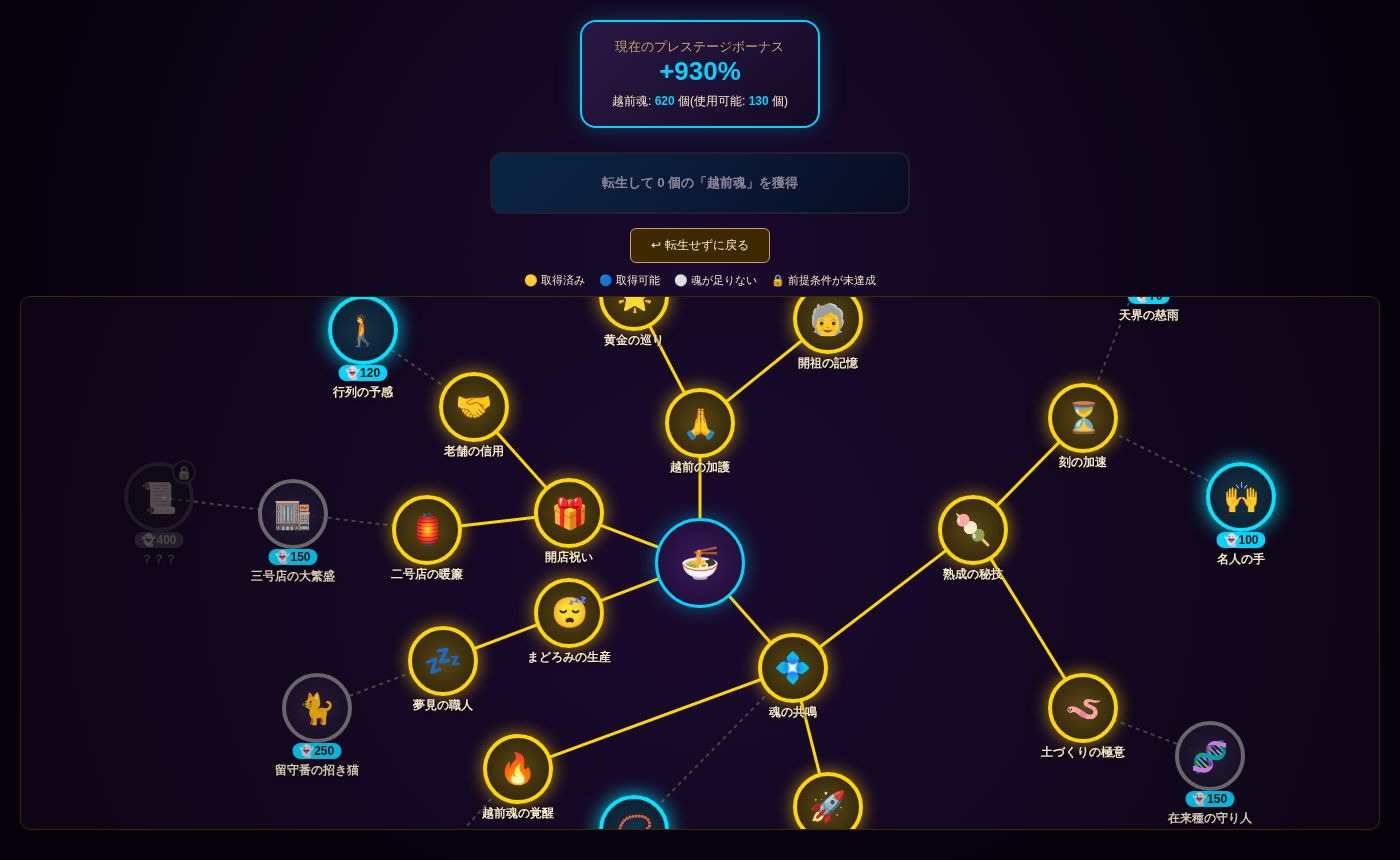
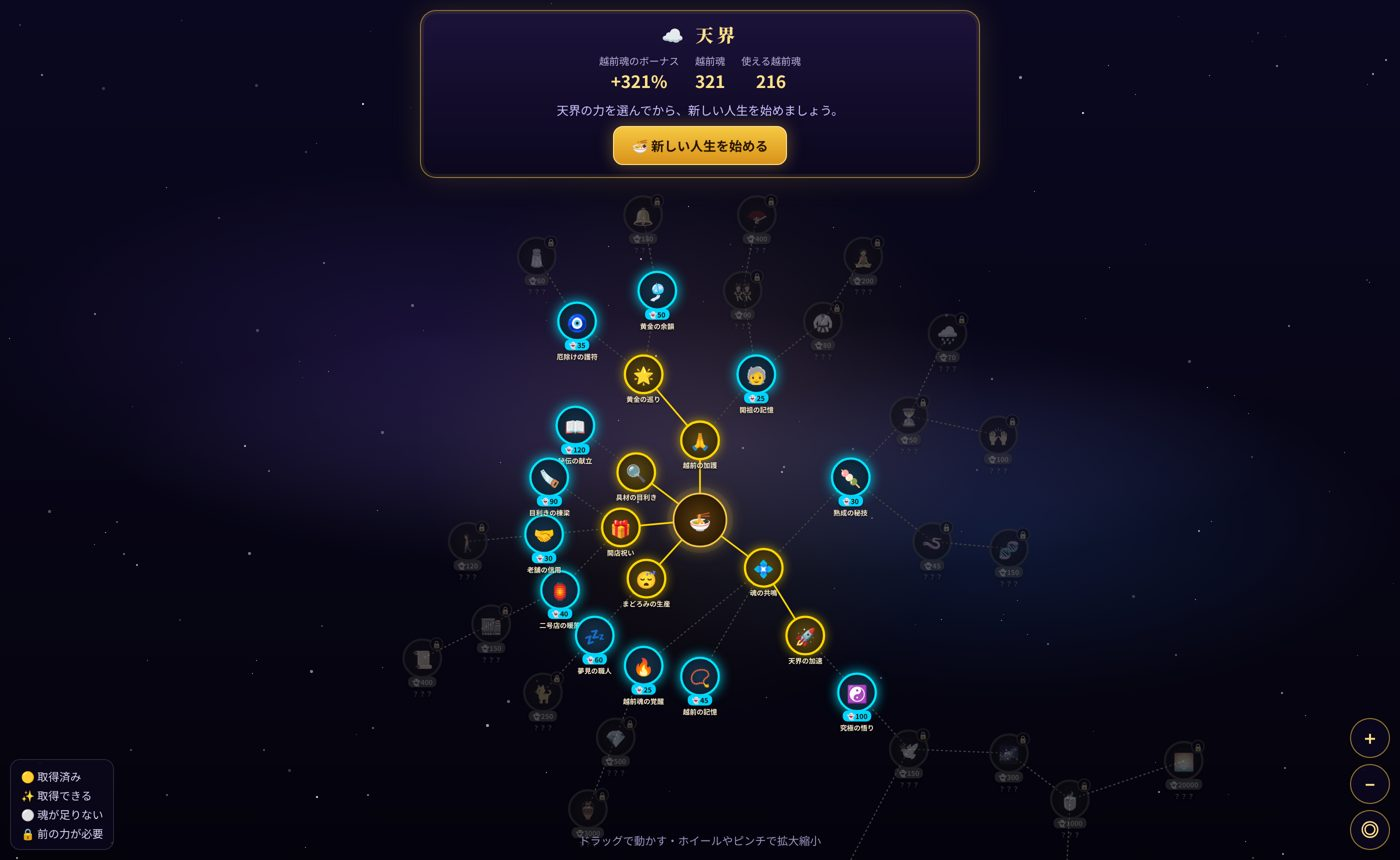
Full-screen heavenly sky; prestige goes to the sky to choose powers before the new life
- The skill tree fills the screen over a starry night sky, with drag, wheel/pinch zoom
  and a center button; the header is a compact panel on top
- Prestige no longer starts the new life at once: it opens the sky, where powers are
  bought, and "Begin a new life" applies the starter kit. Reloading in between
  returns to the sky.

Claude-Session: https://claude.ai/code/session_01DH8e2qLLQXDWCLd39XPmR5

diff --git a/js/core.js b/js/core.js
@@ -46,6 +46,7 @@ function createFreshState() {
         titles: ['t_rookie'],
         title: 't_rookie',
         decorations: [],
+        pendingRebirth: false,
         reputation: 0,
         ordersCompleted: 0,
         ordersFailed: 0,
@@ -1334,7 +1335,8 @@ function renderSkillTree(available) {
         div.appendChild(label);
 
         if (!owned && prereqMet) {
-            div.onpointerdown = (e) => { e.preventDefault(); buyHeavenly(h.id); };
+            // A click, not a press, so dragging the sky from a node doesn't buy it
+            div.onclick = () => { if (!treeDrag.moved) buyHeavenly(h.id); };
         }
         let tipDesc = h.desc;
         if (!prereqMet) {
@@ -1350,21 +1352,131 @@ function renderSkillTree(available) {
 }
 
 
-function openAscensionScreen() {
-    document.getElementById('ascension-screen').style.display = 'flex';
-    renderAscensionScreen();
-    // The tree grows outward from the center of a large canvas: start the view there
-    const wrap = document.getElementById('skill-tree-wrap');
-    wrap.scrollLeft = (wrap.scrollWidth - wrap.clientWidth) / 2;
-    wrap.scrollTop = (wrap.scrollHeight - wrap.clientHeight) / 2;
+// --- The heavenly sky: a full-screen tree you can drag around and zoom ---
+const treeView = { x: 0, y: 0, scale: 1 };
+const treeDrag = { pointers: new Map(), moved: false, startDist: 0, startScale: 1, last: null };
+const TREE_MIN_SCALE = 0.35, TREE_MAX_SCALE = 1.8;
+
+function applyTreeView() {
+    document.getElementById('skill-tree-canvas').style.transform = `translate(${treeView.x}px, ${treeView.y}px) scale(${treeView.scale})`;
 }
 
-function closeAscensionScreen() {
+// Fit the whole tree on screen (but not larger than 1:1), centered under the header
+function centerSkillTree(fit) {
+    const wrap = document.getElementById('skill-tree-wrap');
+    const canvas = document.getElementById('skill-tree-canvas');
+    const size = parseFloat(canvas.style.width) || 1400;
+    const hud = document.getElementById('ascension-header-box').getBoundingClientRect();
+    const top = Math.min(hud.bottom, wrap.clientHeight * 0.4);
+    const w = wrap.clientWidth, h = wrap.clientHeight - top;
+    if (fit) treeView.scale = Math.max(TREE_MIN_SCALE, Math.min(1, Math.min(w, h) / size * 2));
+    treeView.x = w / 2 - size * treeView.scale / 2;
+    treeView.y = top + h / 2 - size * treeView.scale / 2;
+    applyTreeView();
+}
+
+function zoomSkillTree(factor, cx, cy) {
+    const wrap = document.getElementById('skill-tree-wrap');
+    if (cx === undefined) { cx = wrap.clientWidth / 2; cy = wrap.clientHeight / 2; }
+    const next = Math.max(TREE_MIN_SCALE, Math.min(TREE_MAX_SCALE, treeView.scale * factor));
+    const k = next / treeView.scale;
+    treeView.x = cx - (cx - treeView.x) * k;
+    treeView.y = cy - (cy - treeView.y) * k;
+    treeView.scale = next;
+    applyTreeView();
+}
+
+function setupSkillTreeControls() {
+    const wrap = document.getElementById('skill-tree-wrap');
+    if (wrap.dataset.ready) return;
+    wrap.dataset.ready = '1';
+    const center = () => {
+        const pts = [...treeDrag.pointers.values()];
+        return { x: pts.reduce((s, p) => s + p.x, 0) / pts.length, y: pts.reduce((s, p) => s + p.y, 0) / pts.length };
+    };
+    const spread = () => {
+        const [a, b] = [...treeDrag.pointers.values()];
+        return Math.hypot(a.x - b.x, a.y - b.y);
+    };
+    wrap.addEventListener('pointerdown', (e) => {
+        treeDrag.pointers.set(e.pointerId, { x: e.clientX, y: e.clientY });
+        if (treeDrag.pointers.size === 1) treeDrag.moved = false;
+        treeDrag.last = center();
+        if (treeDrag.pointers.size === 2) { treeDrag.startDist = spread(); treeDrag.startScale = treeView.scale; }
+        wrap.classList.add('dragging');
+    });
+    wrap.addEventListener('pointermove', (e) => {
+        if (!treeDrag.pointers.has(e.pointerId)) return;
+        treeDrag.pointers.set(e.pointerId, { x: e.clientX, y: e.clientY });
+        const c = center();
+        const dx = c.x - treeDrag.last.x, dy = c.y - treeDrag.last.y;
+        if (Math.abs(dx) + Math.abs(dy) > 0) {
+            treeView.x += dx; treeView.y += dy;
+            if (!treeDrag.moved && treeDrag.pointers.size === 1) {
+                const start = treeDrag.downAt || c;
+                if (Math.hypot(c.x - start.x, c.y - start.y) > 6) treeDrag.moved = true;
+            }
+        }
+        treeDrag.last = c;
+        if (treeDrag.pointers.size === 2 && treeDrag.startDist > 0) {
+            treeDrag.moved = true;
+            zoomSkillTree(treeDrag.startScale * spread() / treeDrag.startDist / treeView.scale, c.x, c.y);
+        } else applyTreeView();
+        hideTooltip();
+    });
+    const end = (e) => {
+        treeDrag.pointers.delete(e.pointerId);
+        treeDrag.last = treeDrag.pointers.size ? center() : null;
+        if (treeDrag.pointers.size < 2) treeDrag.startDist = 0;
+        if (!treeDrag.pointers.size) { wrap.classList.remove('dragging'); setTimeout(() => { treeDrag.moved = false; }, 0); }
+    };
+    wrap.addEventListener('pointerup', end);
+    wrap.addEventListener('pointercancel', end);
+    wrap.addEventListener('pointerdown', (e) => { treeDrag.downAt = { x: e.clientX, y: e.clientY }; }, true);
+    wrap.addEventListener('wheel', (e) => { e.preventDefault(); zoomSkillTree(e.deltaY < 0 ? 1.12 : 1 / 1.12, e.clientX, e.clientY); }, { passive: false });
+
+    // Stars, scattered once
+    const sky = document.getElementById('heaven-sky');
+    let stars = '';
+    for (let i = 0; i < 160; i++) {
+        const size = Math.random() < 0.1 ? 3 : Math.random() < 0.4 ? 2 : 1;
+        stars += `<span class="heaven-star" style="left:${(Math.random() * 100).toFixed(2)}%;top:${(Math.random() * 100).toFixed(2)}%;width:${size}px;height:${size}px;--o:${(0.4 + Math.random() * 0.6).toFixed(2)};--tw:${(2 + Math.random() * 5).toFixed(1)}s;animation-delay:-${(Math.random() * 5).toFixed(1)}s"></span>`;
+    }
+    sky.innerHTML = stars;
+}
+
+function openAscensionScreen() {
+    const screen = document.getElementById('ascension-screen');
+    screen.style.display = 'block';
+    screen.classList.toggle('limbo', !!state.pendingRebirth);
+    setupSkillTreeControls();
+    renderAscensionScreen();
+    centerSkillTree(true);
+}
+
+// While between lives (after prestige, before starting again) the sky can't be left
+function closeAscensionScreen(force) {
+    if (state.pendingRebirth && !force) return;
     document.getElementById('ascension-screen').style.display = 'none';
 }
 
+// Leave the sky after a prestige: the starter kit follows the heavenly powers chosen up there
+function finishRebirth() {
+    if (!state.pendingRebirth) return;
+    state.pendingRebirth = false;
+    applyStarterKit();
+    scheduleNextOrder();
+    calculateCps();
+    closeAscensionScreen(true);
+    document.getElementById('ascension-screen').classList.remove('limbo');
+    switchTab('shop');
+    saveGame(true);
+    notify(t('輪廻転生しました。新たな人生の始まりです。'), "♻");
+    render();
+}
+
 function renderAscensionScreen() {
-    if (document.getElementById('ascension-screen').style.display !== 'flex') return;
+    if (document.getElementById('ascension-screen').style.display !== 'block') return;
     const btn = document.getElementById('ascension-transcend-btn');
     const soulsToGet = getSoulsToGet();
     const canPrestige = soulsToGet > 0;
@@ -1495,6 +1607,7 @@ document.getElementById('bowl').onpointerdown = (e) => { e.preventDefault(); cli
 
 document.addEventListener('keydown', (e) => {
     if (e.code !== 'Space' || e.repeat) return;
+    if (document.getElementById('ascension-screen').style.display === 'block') return;
     // Let Space type into text fields and press focused buttons as usual
     const t = e.target;
     if (t && (t.isContentEditable || ['INPUT', 'TEXTAREA', 'SELECT', 'BUTTON'].includes(t.tagName))) return;
@@ -1689,14 +1802,14 @@ function prestige() {
         state.souls += soulsToGet;
         state.prestigeCount++;
         resetState();
-        applyStarterKit();
         state.activeOrder = null;
-        scheduleNextOrder();
+        danExam = null;
+        // Into the sky: choose heavenly powers first, then start the new life with finishRebirth()
+        state.pendingRebirth = true;
         calculateCps();
-        closeAscensionScreen();
-        switchTab('shop');
+        saveGame(true);
         showCelebration('♻', t('輪廻転生'), t('越前魂 +{0}', fmt(soulsToGet)), 'prestige');
-        notify(t('輪廻転生しました。新たな人生の始まりです。'), "♻");
+        openAscensionScreen();
     }
 }
 

diff --git a/css/style.css b/css/style.css
@@ -250,7 +250,7 @@ body.reduced #fever-overlay.on{animation:none}
 .region-marker-label{position:absolute;transform:translate(-50%, 32px);font-size:11px;white-space:nowrap;color:var(--text);font-weight:bold;z-index:3;pointer-events:none;padding:1px 6px;border-radius:8px;background:rgba(0,0,0,0.55);text-shadow:0 1px 2px rgba(0,0,0,0.9)}
 
 /* Skill Tree */
-.skill-hub{position:absolute;width:90px;height:90px;border-radius:50%;background:radial-gradient(circle, #3a1a5c 0%, #1a0a2e 100%);border:3px solid var(--prestige);display:flex;align-items:center;justify-content:center;font-size:32px;transform:translate(-50%,-50%);box-shadow:0 0 20px rgba(0,212,255,0.4);z-index:2}
+.skill-hub{position:absolute;width:96px;height:96px;border-radius:50%;background:radial-gradient(circle, #5a3a10 0%, #1a0f00 100%);border:3px solid #f5c842;display:flex;align-items:center;justify-content:center;font-size:32px;transform:translate(-50%,-50%);box-shadow:0 0 30px rgba(245,200,66,0.55), 0 0 0 10px rgba(245,200,66,0.08);z-index:2}
 .skill-node{position:absolute;width:70px;height:70px;border-radius:50%;display:flex;align-items:center;justify-content:center;font-size:30px;transform:translate(-50%,-50%);cursor:pointer;transition:0.2s;z-index:3;border:4px solid #333;background:radial-gradient(circle, #2a1f3d 0%, #150d20 100%)}
 .skill-node.owned{border-color:gold;background:radial-gradient(circle, #5a4816 0%, #2a1f08 100%);box-shadow:0 0 18px rgba(255,215,0,0.6)}
 .skill-node.available{border-color:#00e5ff;background:radial-gradient(circle, #16324a 0%, #0a1a2a 100%);box-shadow:0 0 14px rgba(0,229,255,0.5);animation:skill-pulse 1.8s ease-in-out infinite}
@@ -297,11 +297,39 @@ body.reduced #fever-overlay.on{animation:none}
 .daily-progress{font-size:11px;color:var(--muted);margin-top:4px}
 
 /* Full-screen Ascension overlay - completely replaces normal gameplay, original-inspired */
-#ascension-screen{display:none;position:fixed;inset:0;z-index:2000;background:radial-gradient(circle at 50% 30%, #1a0a2e 0%, #05020a 80%);overflow-y:auto;flex-direction:column;align-items:center;padding:20px;}
-#ascension-header{width:100%;max-width:600px;display:flex;flex-direction:column;align-items:center;margin-bottom:10px;flex-shrink:0;}
-#ascension-header-box{background:linear-gradient(135deg, #2a1845 0%, #150a25 100%);border:2px solid var(--prestige);border-radius:16px;padding:16px 30px;text-align:center;box-shadow:0 0 25px rgba(0,212,255,0.25);margin-bottom:10px;}
-#skill-tree-wrap{width:100%; flex:1; min-height:400px; overflow:auto; border:1px solid var(--border); border-radius:10px; background:radial-gradient(circle, #1a0a2e 0%, #0d0515 100%); margin-bottom:10px;}
-#skill-tree-canvas{position:relative; width:1400px; height:1400px; margin:0 auto;}
+#ascension-screen{display:none;position:fixed;inset:0;z-index:2000;overflow:hidden;background:#04030c}
+/* Night sky over Echizen: an indigo field, a soft band of the Milky Way and warm lantern-gold glows */
+#heaven-sky{position:absolute;inset:0;pointer-events:none;background:
+    radial-gradient(ellipse 60% 22% at 50% 52%, rgba(160,140,255,0.16), transparent 70%),
+    radial-gradient(ellipse 45% 30% at 30% 40%, rgba(90,60,170,0.22), transparent 70%),
+    radial-gradient(ellipse 40% 28% at 72% 62%, rgba(40,90,170,0.22), transparent 70%),
+    radial-gradient(circle at 50% 50%, rgba(245,200,66,0.10), transparent 35%),
+    linear-gradient(180deg, #0a0820 0%, #04030c 100%)}
+.heaven-star{position:absolute;border-radius:50%;background:#fff;animation:twinkle var(--tw,4s) ease-in-out infinite}
+@keyframes twinkle{0%,100%{opacity:var(--o,0.8)}50%{opacity:0.2}}
+#skill-tree-wrap{position:absolute;inset:0;overflow:hidden;cursor:grab;touch-action:none}
+#skill-tree-wrap.dragging{cursor:grabbing}
+#skill-tree-canvas{position:absolute;left:0;top:0;width:1400px;height:1400px;transform-origin:0 0}
+#ascension-hud{position:absolute;top:10px;left:50%;transform:translateX(-50%);z-index:5;width:min(560px, calc(100% - 20px));pointer-events:none}
+#ascension-header-box{pointer-events:auto;background:linear-gradient(180deg, rgba(30,20,60,0.92) 0%, rgba(12,8,30,0.92) 100%);border:1px solid rgba(245,200,66,0.55);border-radius:16px;padding:10px 16px 12px;text-align:center;box-shadow:0 0 30px rgba(245,200,66,0.15), inset 0 0 0 3px rgba(245,200,66,0.08);backdrop-filter:blur(4px)}
+.heaven-title{font-family:'Noto Serif JP',serif;font-weight:900;font-size:18px;color:#ffe08a;letter-spacing:0.2em}
+.heaven-stats{display:flex;justify-content:center;gap:16px;margin:6px 0 8px;flex-wrap:wrap}
+.heaven-stats>div{display:flex;flex-direction:column;align-items:center}
+.heaven-stat-label{font-size:10px;color:#b8b0d8}
+.heaven-stat-value{font-size:17px;font-weight:900;color:#ffe08a}
+#ascension-limbo-msg{display:none;font-size:12px;color:#c9c1ff;margin-bottom:8px}
+#ascension-screen.limbo #ascension-limbo-msg{display:block}
+#ascension-actions{display:flex;gap:8px;justify-content:center;flex-wrap:wrap}
+.heaven-btn{padding:8px 14px;border-radius:10px;border:1px solid #6a5a9a;background:rgba(40,30,80,0.9);color:#e8e2ff;font-family:inherit;font-weight:700;font-size:12px;cursor:pointer}
+.heaven-btn.main{background:linear-gradient(180deg,#f5c842,#d9921a);border-color:#ffe08a;color:#2a1600;font-size:13px;padding:9px 18px;box-shadow:0 0 16px rgba(245,200,66,0.35)}
+.heaven-btn:disabled{opacity:0.45;cursor:default;box-shadow:none}
+#ascension-rebirth-btn{display:none}
+#ascension-screen.limbo #ascension-rebirth-btn{display:inline-block}
+#ascension-screen.limbo #ascension-transcend-btn,#ascension-screen.limbo #ascension-back-btn{display:none}
+#skill-tree-legend{position:absolute;left:10px;bottom:10px;z-index:5;display:flex;flex-direction:column;gap:3px;font-size:11px;color:#d8d2f0;background:rgba(12,8,30,0.75);border:1px solid rgba(255,255,255,0.12);border-radius:10px;padding:8px 10px;pointer-events:none}
+#heaven-zoom{position:absolute;right:10px;bottom:10px;z-index:5;display:flex;flex-direction:column;gap:6px}
+#heaven-zoom button{width:40px;height:40px;border-radius:50%;border:1px solid rgba(245,200,66,0.6);background:rgba(12,8,30,0.85);color:#ffe08a;font-size:18px;font-weight:900;cursor:pointer}
+#heaven-hint{position:absolute;bottom:12px;left:50%;transform:translateX(-50%);z-index:5;font-size:11px;color:#9a92c0;pointer-events:none;white-space:nowrap}
 
 /* Shrine (Spirits) UI */
 #shrine-view{flex:1;overflow-y:auto;padding:25px;display:none;-webkit-overflow-scrolling: touch;}
@@ -354,8 +382,9 @@ button{touch-action:manipulation}
 
     .region-marker{width:46px;height:46px;font-size:20px}
     .region-marker-label{transform:translate(-50%, 27px)}
-    #ascension-header-box{padding:12px 20px}
-    #ascension-bonus{font-size:20px}
+    #ascension-header-box{padding:8px 10px 10px}
+    .heaven-stat-value{font-size:15px}
+    #skill-tree-legend,#heaven-hint{display:none}
 }
 
 @media (max-width: 480px) {

diff --git a/soba_clicker.html b/soba_clicker.html
@@ -272,30 +272,42 @@
 </div>
 
 <div id="ascension-screen">
-    <div id="ascension-header">
-        <div id="ascension-header-box">
-            <div style="font-size:13px; color:var(--muted)">現在のプレステージボーナス</div>
-            <div id="ascension-bonus" style="font-size:26px; font-weight:900; color:var(--prestige)">+0%</div>
-            <div style="font-size:12px; margin-top:6px;">越前魂: <span id="ascension-souls" style="color:var(--prestige); font-weight:bold">0</span> 個(使用可能: <span id="ascension-available" style="color:var(--prestige); font-weight:bold">0</span> 個)</div>
-        </div>
-        <button id="ascension-transcend-btn" class="prestige-btn" onclick="prestige()" style="max-width:420px; margin:14px auto;">
-            転生して 0 個の「越前魂」を獲得
-        </button>
-        <button id="ascension-back-btn" onclick="closeAscensionScreen()" style="padding:8px 20px; background:var(--border); border:1px solid var(--muted); color:var(--text); border-radius:6px; cursor:pointer; font-size:12px;">↩ 転生せずに戻る</button>
-    </div>
-
-    <div id="skill-tree-legend" style="display:flex; gap:14px; flex-wrap:wrap; justify-content:center; font-size:11px; color:var(--text); margin-bottom:8px;">
-        <span>🟡 取得済み</span>
-        <span>🔵 取得可能</span>
-        <span>⚪ 魂が足りない</span>
-        <span>🔒 前提条件が未達成</span>
-    </div>
-
+    <div id="heaven-sky"></div>
     <div id="skill-tree-wrap">
         <div id="skill-tree-canvas">
             <svg id="skill-tree-svg" width="1400" height="1200" style="position:absolute; top:0; left:0; pointer-events:none;"></svg>
         </div>
     </div>
+
+    <div id="ascension-hud">
+        <div id="ascension-header-box">
+            <div class="heaven-title">☁ 天界</div>
+            <div class="heaven-stats">
+                <div><span class="heaven-stat-label">越前魂のボーナス</span><span id="ascension-bonus" class="heaven-stat-value">+0%</span></div>
+                <div><span class="heaven-stat-label">越前魂</span><span class="heaven-stat-value"><span id="ascension-souls">0</span></span></div>
+                <div><span class="heaven-stat-label">使える越前魂</span><span class="heaven-stat-value"><span id="ascension-available">0</span></span></div>
+            </div>
+            <div id="ascension-limbo-msg">天界の力を選んでから、新しい人生を始めましょう。</div>
+            <div id="ascension-actions">
+                <button id="ascension-transcend-btn" class="heaven-btn main" onclick="prestige()">転生して 0 個の「越前魂」を獲得</button>
+                <button id="ascension-rebirth-btn" class="heaven-btn main" onclick="finishRebirth()">🍜 新しい人生を始める</button>
+                <button id="ascension-back-btn" class="heaven-btn" onclick="closeAscensionScreen()">↩ 転生せずに戻る</button>
+            </div>
+        </div>
+    </div>
+
+    <div id="skill-tree-legend">
+        <span>🟡 取得済み</span>
+        <span>✨ 取得できる</span>
+        <span>⚪ 魂が足りない</span>
+        <span>🔒 前の力が必要</span>
+    </div>
+    <div id="heaven-zoom">
+        <button onclick="zoomSkillTree(1.25)" aria-label="zoom in">＋</button>
+        <button onclick="zoomSkillTree(0.8)" aria-label="zoom out">－</button>
+        <button onclick="centerSkillTree(true)" aria-label="center">◎</button>
+    </div>
+    <div id="heaven-hint">ドラッグで動かす・ホイールやピンチで拡大縮小</div>
 </div>
 
 <div id="modal-overlay" onclick="if (event.target === this) closeModal()"><div id="modal-box"></div></div>

diff --git a/tests/game.test.js b/tests/game.test.js
@@ -123,9 +123,19 @@ test('prestige grants souls and keeps permanent progress', async () => {
         state.allTimeSoba = 1e12; state.totalSoba = 1e12;
         const expected = getSoulsToGet();
         prestige();
-        return { expected, souls: state.souls, level: state.buildingLevels.student, students: state.buildings.student,
+        // Between lives: in the sky, nothing built yet, and the sky can't be closed until a new life starts
+        const limbo = { pending: state.pendingRebirth, open: document.getElementById('ascension-screen').style.display, students: state.buildings.student };
+        closeAscensionScreen();
+        limbo.stillOpen = document.getElementById('ascension-screen').style.display;
+        state.heavenlyUpgrades.push('heav_17'); // taken in the sky, so its starter kit applies to this life
+        finishRebirth();
+        return { limbo, mills: state.buildings.mill, closed: document.getElementById('ascension-screen').style.display, pendingAfter: state.pendingRebirth, expected, souls: state.souls, level: state.buildingLevels.student, students: state.buildings.student,
                  kitchens: state.buildings.kitchen, regions: state.regions, soba: state.soba, upgrades: state.upgrades.length };
     });
+    assert.deepEqual(r.limbo, { pending: true, open: 'block', students: 0, stillOpen: 'block' });
+    assert.equal(r.mills, 10, 'starter kit from a power bought in the sky');
+    assert.equal(r.closed, 'none');
+    assert.equal(r.pendingAfter, false);
     assert.equal(r.souls, 5 + r.expected);
     assert.ok(r.expected >= 5, 'first prestige at 1e12 should give a useful number of souls');
     assert.equal(r.level, 2, 'aging levels are permanent');

diff --git a/js/lang-en.js b/js/lang-en.js
@@ -1076,6 +1076,16 @@ I18N.en.text = {
     '時間切れ…「{0}」は失敗しました。元の進行状況に戻りました。': 'Time is up... "{0}" failed. Your progress is back.',
     '転生を{0}回すると挑戦できるようになる。': 'Unlocks after {0} prestiges.',
 
+    // --- the heavenly sky ---
+    '☁ 天界': '☁ Heaven',
+    '越前魂のボーナス': 'Soul bonus',
+    '使える越前魂': 'Souls to spend',
+    '天界の力を選んでから、新しい人生を始めましょう。': 'Choose your heavenly powers, then begin your new life.',
+    '🍜 新しい人生を始める': '🍜 Begin a new life',
+    '✨ 取得できる': '✨ Can be learned',
+    '🔒 前の力が必要': '🔒 Needs the one before',
+    'ドラッグで動かす・ホイールやピンチで拡大縮小': 'Drag to move, wheel or pinch to zoom',
+
     // --- dan exams, titles, decorations ---
     '🥋 段位': '🥋 Dan',
     '🎏 飾りつけ': '🎏 Decor',

diff --git a/js/save.js b/js/save.js
@@ -88,6 +88,7 @@ function normalizeState() {
     if (!state.titles.includes('t_rookie')) state.titles.unshift('t_rookie');
     if (typeof state.title !== 'string') state.title = 't_rookie';
     if (!Array.isArray(state.decorations)) state.decorations = [];
+    if (typeof state.pendingRebirth !== 'boolean') state.pendingRebirth = false;
     if (typeof state.pantry.finds !== 'number') state.pantry.finds = 0;
     if (state.reputation === undefined) state.reputation = 0;
     if (state.ordersCompleted === undefined) state.ordersCompleted = 0;
@@ -174,3 +175,5 @@ if ('serviceWorker' in navigator && location.protocol.startsWith('http')) {
     navigator.serviceWorker.register('sw.js').catch(() => { /* offline support is optional */ });
 }
 checkLoginBonus();
+// Closed the game in the sky after a prestige: go back there to finish choosing
+if (state.pendingRebirth) openAscensionScreen();

diff --git a/js/systems.js b/js/systems.js
@@ -704,6 +704,7 @@ function getOrderProgress(order) {
 }
 
 function orderTick(now) {
+    if (state.pendingRebirth) return; // between lives, in the sky
     if (state.activeOrder) {
         const order = state.activeOrder;
         // Deadline first: production credited in one lump after it (time away, a background tab)

diff --git a/README.md b/README.md
@@ -24,7 +24,7 @@ It runs in the browser on computers and phones, with no install. Available in Ja
 
 ### おもな要素
 - **施設28種・アップグレード**: そば打ち見習いから宇宙そば農場、そばの龍神、「終わりなき一杯」、そして最後は「あなた」。
-- **転生と天界の力**: 越前魂で買える、43項目のスキルツリー。
+- **転生と天界の力**: 越前魂で買える、43項目のスキルツリー。転生すると画面いっぱいの星空(天界)に移り、ドラッグや拡大縮小でツリーを見ながら天界の力を選んでから、新しい人生を始めます。
 - **神格**: 越前魂を1000個集めると行える、転生のさらに上の段階。全てを捧げて「神徳」を得る、終盤の目標です。
 - **今日のお題**: 毎日3つ出る日替わりのお題。全部達成するとおまけつき。
 - **物語**: お店の成長に合わせて進む全13話のお話。ふみ婆ちゃん、見習いの健太、常連の源さん、AI製麺ロボのソバ太郎たちと、小さなそば屋から宇宙の果てまで。期間限定イベント・精霊・福井の支店ごとの「寄り道のお話」も20話あります。
@@ -54,7 +54,7 @@ It runs in the browser on computers and phones, with no install. Available in Ja
 
 ### Features
 - **28 buildings and upgrades**, from a soba apprentice to a space soba farm, a soba dragon god, "the endless bowl", and finally "you".
-- **Prestige and heavenly powers**: a 43-node skill tree bought with Echizen Souls.
+- **Prestige and heavenly powers**: a 43-node skill tree bought with Echizen Souls. Prestige takes you to a full-screen night sky where you drag and zoom the tree, choose your powers, then begin a new life.
 - **Divinity**: a step beyond prestige at 1,000 souls. Offer everything for divine virtue, a late-game goal.
 - **Today's tasks**: three new tasks every day, with a bonus for finishing them all.
 - **Story**: 13 chapters that unfold as your shop grows, with Grandma Fumi, Kenta the apprentice, Gen the regular and Sobataro the noodle robot, from a tiny shop to the edge of the universe. Plus 20 side stories for events, spirits and Fukui branches.
